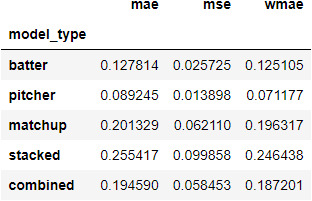
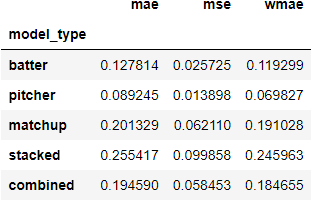
matchup_fix

diff --git a/libs/plot_results.py b/libs/plot_results.py
@@ -130,7 +130,6 @@ class ResultsTable():
         train, test = self.retrieve_data('matchups')
         x_train, y_train, train_weights = mm.matchup_prep(train)
         x_test, y_test, test_weights = mm.matchup_prep(test)
-        test_weights = test['pa']
         with open(r"models/matchup.pkl", "rb") as input_file:
             model = pkl.load(input_file)
         return self.reshape_data(y_train, model.predict(x_train), train_weights, y_test, model.predict(x_test), test_weights)    

diff --git a/libs/matchup_model.py b/libs/matchup_model.py
@@ -19,8 +19,9 @@ def matchup_prep(df):
     matchup_prep = sd.MatchupPrep()
     
     temp_data, pa_data = matchup_prep.data_prep(df)
+    temp_data.dropna(inplace=True)
     
-    X = temp_data.loc[:,~temp_data.columns.isin(['estimated_ba_using_speedangle'])]
+    X = temp_data.loc[:,~temp_data.columns.isin(['estimated_ba_using_speedangle','pa'])]
     y = temp_data.loc[:,temp_data.columns.isin(['estimated_ba_using_speedangle'])]
     
     return X, y, pa_data

diff --git a/libs/split_data.py b/libs/split_data.py
@@ -92,7 +92,9 @@ class MatchupPrep(GenericPrep):
         data = data.set_index(['pitcher',data.index])
         data.dropna(inplace=True)
         
-        return data.loc[:,~data.columns.isin(['pa'])], data['pa']
+        df = data.loc[data['pa'] != 0]
+        
+        return df.loc[:,~df.columns.isin(['pa'])], df['pa']
     
     # COmbines batter steps
     def rolling_batter(self,data,depth_num,depth_min=10,depth_type='D'):

diff --git a/test_stuff.py b/test_stuff.py
@@ -8,12 +8,11 @@ Created on Fri Feb 24 14:39:40 2023
 import sys
 sys.path.insert(0, './libs')
 
-import plot_results as pr
+import libs.plot_results as pr
 import dataframe_image as dfi
 
 test = pr.ResultsTable()
-
-test.stacked_results()
+test.all_results()
 
 test.train_block
 test.test_block
